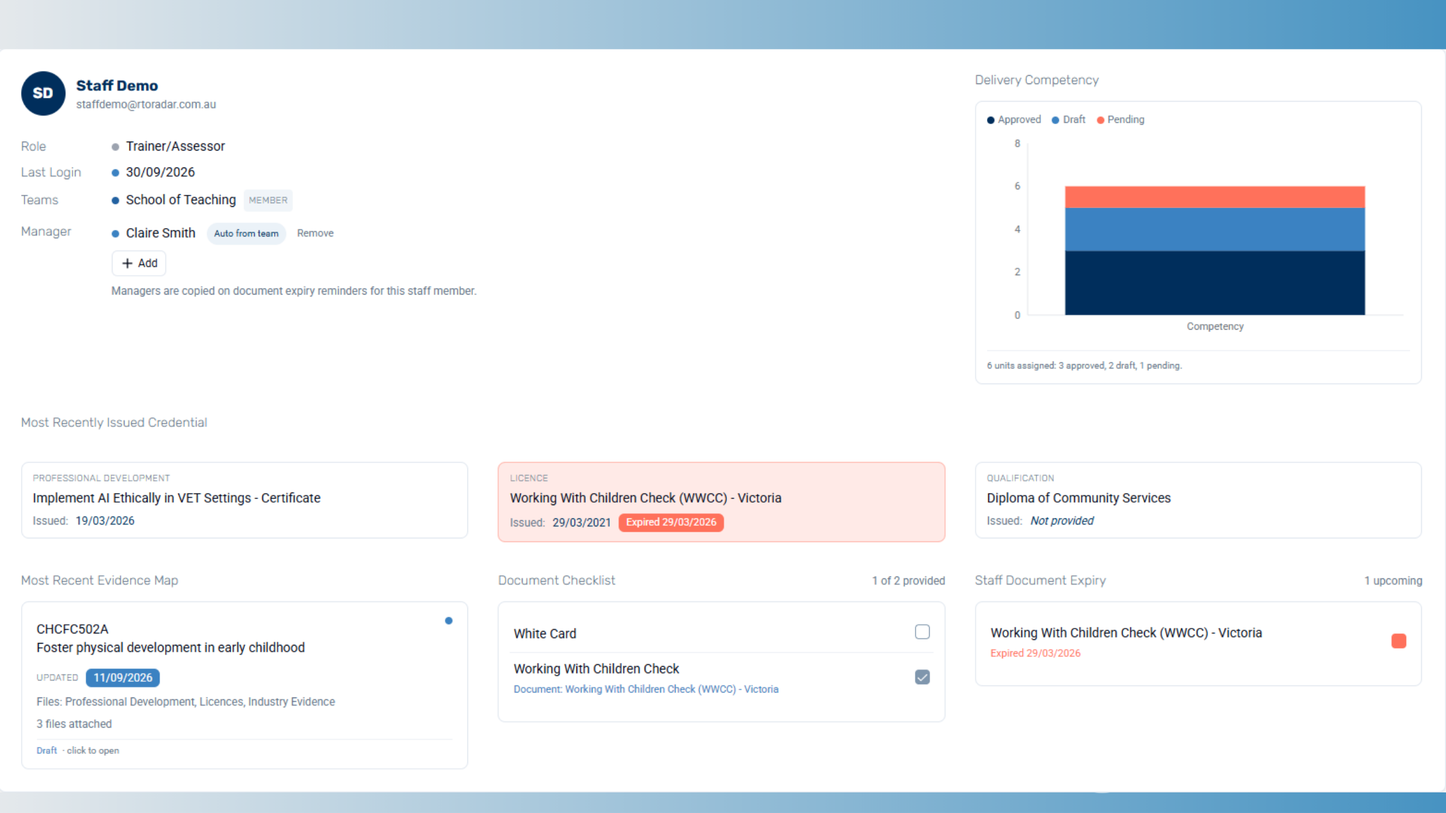
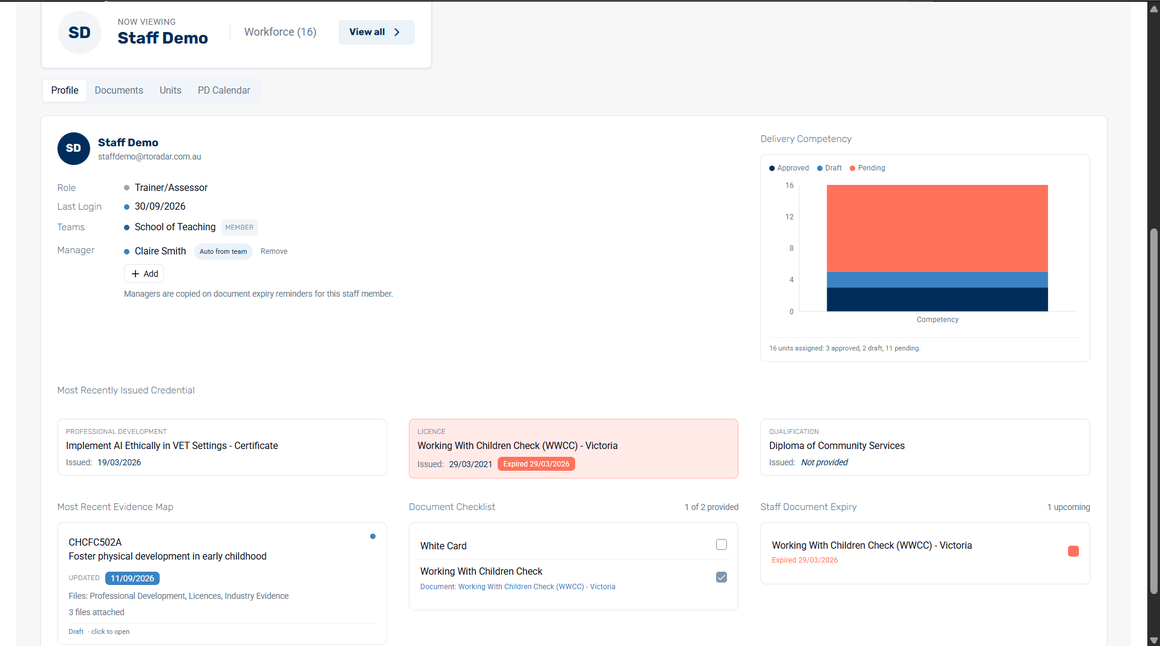
Update Getting Started: How to Use This Guide intro, silent-user trainer setup, staff documents steps
Adds screenshots for the Compliance Dashboard tab, adding a silent-user trainer and uploading staff documents. Numbers Getting Started from Set Up Your Organisation, with How to Use This Guide as an unnumbered introduction.

diff --git a/assets/js/content.js b/assets/js/content.js
@@ -16,7 +16,7 @@
   // cat: which Help Guides category the module sits under
   var MODULES = [
     { id: 'getting-started', cat: 'getting-started', name: 'Getting Started', series: true,
-      blurb: 'A 10-step series that takes you from a new account to filling up your dashboard. Work through it in order.',
+      blurb: 'A 9-step series that takes you from a new account to filling up your dashboard. Work through it in order.',
       // FAQs shown at the end of the page: [question, answer HTML]
       faqs: [
         ['What’s the difference between the person responsible for proposed treatment of risks and the Escalation Manager?',
@@ -40,14 +40,16 @@
             '<li><b>Verify</b> sends it to another person in your RTO to check first. They confirm the right steps were taken and the updated risk level is correct. The item is only marked complete across your organisation once they’ve verified it. If they think it needs more scrutiny, the verifier can escalate it to someone more senior to verify as well.</li>' +
           '</ul>' +
           '<p>Use Verify when an item needs a second set of eyes, such as one tied to a high or extreme risk.</p>'],
-        ['When should I use Silent User?',
-          '<p>Silent User adds someone to RTO Radar without emailing them an invitation. It’s useful when you want to:</p>' +
+        ['What’s the difference between a silent user and a regular user?',
+          '<p>A <b>regular user</b> is emailed an invitation, signs in to RTO Radar and works in it themselves, for example uploading their own documents and mapping their evidence.</p>' +
+          '<p>A <b>silent user</b> has a profile but no sign-in access, and isn’t emailed an invitation. You manage their records for them. Silent users are useful when you want to:</p>' +
           '<ul>' +
             '<li><b>Set up an account before inviting someone</b>: add their documents, courses and units first, so everything’s ready when they first sign in.</li>' +
             '<li><b>Keep compliance records</b> for staff who don’t need to sign in themselves, such as their credentials and document expiry dates.</li>' +
             '<li><b>Test</b> roles, checklists and settings without emailing real people.</li>' +
-          '</ul>' +
-          '<p>When you’re ready, you can send them the invitation.</p>']
+          '</ul>'],
+        ['Can I convert a silent user to a regular user?',
+          '<p>Yes. When you’re ready for them to sign in, send them an invitation from <b>Settings</b> › <b>User Management</b> › <b>Staff</b>. Their profile, documents and assignments stay as they are, so everything you set up is waiting for them when they first sign in.</p>']
       ],
       updated: '2026-10-05', // shown when the site is opened from disk; on a web server the files' own dates are used
 
@@ -86,14 +88,14 @@
 
   // [module, id, type, title, roles, minutes]
   var LIST = [
-    ['getting-started', 'gs-welcome', 'Overview', 'Welcome to RTO Radar', ADM, 5],
+    ['getting-started', 'gs-welcome', 'Overview', 'How to Use This Guide', ADM, 5],
     ['getting-started', 'gs-organisation', 'How-to', 'Set Up Your Organisation', ADM, 10],
     ['getting-started', 'gs-risks', 'How-to', 'Set Up Your Organisational Risks', ADM, 10],
     ['getting-started', 'gs-cir', 'How-to', 'Visit the Continuous Improvement Register', ADM, 5],
     ['getting-started', 'gs-documents', 'How-to', 'Start Adding Your Documents and View Compliance Dashboard', ADM, 10],
     ['getting-started', 'gs-connect-axcelerate', 'How-to', 'Import via aXcelerate (optional)', ADM, 10],
     ['getting-started', 'gs-programs', 'How-to', 'Add Your Programs', ADM, 10],
-    ['getting-started', 'gs-workforce', 'How-to', 'Invite a Trainer', ADM, 5],
+    ['getting-started', 'gs-workforce', 'How-to', 'Add a Trainer', ADM, 5],
     ['getting-started', 'gs-training', 'How-to', 'Assign Training', ADM, 10],
     ['getting-started', 'gs-dashboard', 'How-to', 'View Your Dashboard', ADM, 5],
 
@@ -213,46 +215,25 @@
       '<p>The heatmap places every risk on a five-by-five grid using the ratings you gave it: likelihood runs across, from Rare to Almost Certain, and consequence runs down, from Insignificant to Catastrophic. Each square shows how many risks share that rating.</p>' +
       '<p>A risk’s score is its likelihood multiplied by its consequence, and the colour shows its level: <b>Low</b> (1–4) in green, <b>Medium</b> (5–9) in yellow, <b>High</b> (10–16) in orange and <b>Extreme</b> (17–25) in red. Risks gather towards the top right as they get more serious, so you can see at a glance where to act first.</p>',
     'gs-welcome':
-      '<p class="lead">RTO Radar is compliance software built for Australian Registered Training Organisations. It brings the work that keeps your RTO compliant with the Standards for RTOs 2025 into one connected platform: risk, validation, policies and procedures, trainer competency, professional development, feedback and continuous improvement.</p>' +
+      '<p class="lead">This guide follows your RTO Radar onboarding session. Nine short steps take you from a new account to a dashboard filling up with your RTO’s work. Each step builds on the one before, so work through them in order.</p>' +
 
-      '<h2>Find your way around</h2>' +
+      '<h2>Moving through the guide</h2>' +
+      '<ul>' +
+        '<li><b>Previous and Next.</b> Use the buttons at the bottom of each page to go through the steps in order.</li>' +
+        '<li><b>The step list.</b> The list on the left of this guide shows every step, with the one you’re on highlighted. Select any step to jump straight to it.</li>' +
+        '<li><b>Notes and tips.</b> Read these as you go. Notes explain how something works, and tips point to shortcuts and more detail.</li>' +
+        '<li><b>FAQs.</b> The last page answers common questions, such as how risk scores are worked out and when to use a silent user.</li>' +
+      '</ul>' +
+
+      '<h2>The RTO Radar screen</h2>' +
       '<p>Every screen in RTO Radar has two parts:</p>' +
       '<ul>' +
         '<li><b>The navigation bar (1)</b> on the left lists every part of RTO Radar, from Dashboard and Document Management through to Risk Assessment, Events and Settings. Select one to open it. The navigation bar stays in place wherever you go.</li>' +
         '<li><b>The content area (2)</b> on the right shows whatever you’ve opened, and changes as you move around.</li>' +
       '</ul>' +
       '<figure class="shot" data-marks="0.3,9,15.5,90.5,zone,#1; 17.2,6.4,81.6,93.2,zone,#2"><img src="assets/img/gs-welcome-dashboard.png" alt="RTO Radar after signing in. Marker 1 points to the navigation bar on the left, listing Dashboard, Document Management, Program Management, Continuous Improvement, Workforce Management, Risk Assessment, Complaints and Suggestions, Events and Settings. Marker 2 points to the content area on the right, showing the Admin Dashboard: a Risk Register Overview with 1 missing treatment, 1 responsibility gap and 12 overdue or missing dates, a Risk Level Breakdown bar chart and a Treatment Status Overview pie chart." loading="lazy"><figcaption>The navigation bar (1) and the content area (2), showing your dashboard.</figcaption></figure>' +
-      '<p>When you sign in, the content area opens on your <b>dashboard</b>. It brings forward everything across RTO Radar that needs your immediate attention, from risks and improvement items to documents, staff and upcoming events, so you can see what to act on first without opening every module. Select any item to go straight to it. The last step in this series shows you how to tailor it.</p>' +
-
-      '<h2>How it fits together</h2>' +
-      '<p>RTO Radar runs on a quality cycle. Each part feeds the next:</p>' +
-      '<ol class="rr-cycle">' +
-        '<li><b>Risk sets the pace</b><span>Your RTO profile produces an organisational risk score, which sets a baseline validation frequency for every course. Each course’s own risk factors can shorten it further.</span></li>' +
-        '<li><b>Validation checks quality</b><span>Units are validated through a four-phase process, with AI reading your assessment tools and evidence to point out gaps.</span></li>' +
-        '<li><b>Findings become actions</b><span>Validation findings, feedback, complaints, risk treatments and audit outcomes land in one improvement register, each with an owner and a due date.</span></li>' +
-        '<li><b>Your people stay ready</b><span>Trainer profiles, evidence maps and professional development close the gaps that findings and expiring documents reveal.</span></li>' +
-        '<li><b>Improvements feed back</b><span>Completed actions update your risks, documents and PD plans, and the cycle starts again.</span></li>' +
-      '</ol>' +
-      '<p>Along the way, every document, version, decision and action is recorded, so you can export audit-ready evidence whenever you need it.</p>' +
-
-      '<h2>Who uses RTO Radar</h2>' +
-      '<p>Everyone in your RTO signs in to the same platform, and what they see depends on their role:</p>' +
-      '<ul>' +
-        '<li><a href="roles.html?r=admin"><b>Admins</b></a> set up the organisation, manage users and own the settings. Compliance managers usually hold this role.</li>' +
-        '<li><a href="roles.html?r=coord"><b>Training Coordinators</b></a> manage courses, trainer assignments and delivery.</li>' +
-        '<li><a href="roles.html?r=trainer"><b>Trainers and Assessors</b></a> keep their own documents current, take part in validation and enrol in PD.</li>' +
-        '<li><a href="roles.html?r=auditor"><b>Quality Auditors</b></a> get read-only access for internal reviews and external audits.</li>' +
-      '</ul>' +
-      '<p>Admins can also create custom roles with their own permissions.</p>' +
-
-      '<h2>Where AI helps</h2>' +
-      '<p>RTO Radar uses AI to take on the slowest parts of compliance work:</p>' +
-      '<ul>' +
-        '<li><b>Unit validation</b>: reads your assessment tools, mapping documents and student evidence against the unit of competency and points out gaps.</li>' +
-        '<li><b>Assessment judgement</b>: summarises findings and turns them into improvement items.</li>' +
-        '<li><b>Evidence maps</b>: drafts each trainer’s vocational competency and industry currency from their qualifications, work history and uploaded evidence.</li>' +
-      '</ul>' +
-      '<div class="callout tip"><b>Tip</b><span>Treat AI output as a strong first draft. Review it before you rely on it as evidence.</span></div>',
+      '<p>When you sign in, the content area opens on your <b>dashboard</b>. It brings forward everything across RTO Radar that needs your immediate attention, from risks and improvement items to documents, staff and upcoming events.</p>' +
+      '<p>If you’re new to RTO Radar, your dashboard will be mostly empty. That’s expected: it fills up as you work through this guide. Your organisational risks, improvement items, documents, courses and trainer each appear on it as you add them, and the last step shows you how to tailor it.</p>',
     'upload-and-map-a-document':
       '<p>Mapping a document tells RTO Radar which standards it evidences. Mapped documents count towards your coverage on the Compliance Dashboard, and AI-assisted unit validation can read them as evidence.</p>' +
       '<h2 id="steps">Upload and map a document</h2>' +
@@ -343,7 +324,7 @@
           '<div class="callout note"><b>Note</b><span>The responsible person gets an improvement item in the <a href="feature.html?m=cir">Continuous Improvement Register (CIR)</a> with the proposed treatment.</span></div>' +
           '<figure class="shot"><img src="assets/img/gs-risk-treatment.png" alt="A treatment plan being added to a risk: title Monthly Cash-Flow Monitoring, a description, a proposed treatment, responsible person Compliance Manager, due date 30/10/2026 and status Not started. A bar along the bottom shows the save status, 1 item queued for CI Register and a Complete Risk Assessment button." loading="lazy"><figcaption>Fill in the treatment plan. Use the calendar icon to pick a due date.</figcaption></figure></li>' +
         '<li>Repeat steps 4 to 8 to add more risks, then select <b>Complete Risk Assessment</b>.' +
-          '<figure class="shot" data-marks="8.4,54.2,17.6,10,oval,#; 49,16.4,arrow-down; 88.1,92.6,arrow-down"><img src="assets/img/gs-risk-repeat.png" alt="Risk Assessment by Category with a second category selected. ICT and Cyber-Security Risk is circled in the category list, and an arrow points down at its content on the right: its description, an example, and a risk being entered, Staff Awareness of Cyber Risks, rated Medium Risk with a score of 9. A second arrow points down at the Complete Risk Assessment button in the save bar along the bottom, which shows 2 items queued for CI Register." loading="lazy"><figcaption>Choose another category, such as ICT and Cyber-Security Risk, and add its risks the same way.</figcaption></figure></li>' +
+          '<figure class="shot" data-marks="8.4,54.2,17.6,10,oval,#1; 49,16.4,arrow-down,#2; 88.1,92.6,arrow-down,#3"><img src="assets/img/gs-risk-repeat.png" alt="Risk Assessment by Category with a second category selected. Marker 1 circles ICT and Cyber-Security Risk in the category list, and marker 2 is an arrow pointing down at its content on the right: its description, an example, and a risk being entered, Staff Awareness of Cyber Risks, rated Medium Risk with a score of 9. Marker 3 is an arrow pointing down at the Complete Risk Assessment button in the save bar along the bottom, which shows 2 items queued for CI Register." loading="lazy"><figcaption>Choose another category (1), add its risks the same way (2), then select Complete Risk Assessment (3).</figcaption></figure></li>' +
         '<li>Review your changes, then select <b>Complete Risk Assessment</b>.' +
           '<figure class="shot" data-marks="54.4,69.8,17.6,11.4,oval,#"><img src="assets/img/gs-risk-review.png" alt="The review shown before completing the assessment, headed New Risks Added (2). It lists both new risks with their category, likelihood and consequence, and treatment plan: Cash-flow pressure from delayed student payments, rated Medium with a score of 9, and Staff Awareness of Cyber Risks, rated Low with a score of 4. The Complete Risk Assessment button, between Discard and Exit and Cancel, is circled." loading="lazy"><figcaption>Review the new risks and their treatment plans, then select Complete Risk Assessment.</figcaption></figure>' +
           '<div class="callout note"><b>Note</b><span>You can add more risks later from Risk Assessment › Actions › Edit Comprehensive Assessment.</span></div></li>' +
@@ -391,6 +372,8 @@
       '</ol>' +
       '<h2>Compliance Dashboard</h2>' +
       '<p>The Compliance Dashboard shows how well your documents cover each framework, using the standards you mapped them to. As you upload and map more documents, it fills in.</p>' +
+      '<p>To open it, go to <b>Document Management</b> and select the <b>Compliance Dashboard</b> tab.</p>' +
+      '<figure class="shot" data-marks="21.2,43.2,9.8,6.6,oval,#"><img src="assets/img/gs-cd-tab.png" alt="Document Management (QMS), showing totals for documents, approved, review due and drafts, and the Document Repository. The Compliance Dashboard tab, beside Documents, is circled." loading="lazy"><figcaption>Select the Compliance Dashboard tab in Document Management.</figcaption></figure>' +
       '<p><b>Standards coverage</b> shows how many standards have at least one mapped document. <b>Policy Compliance Health</b> is a score out of 100 that combines standards coverage, review timeliness and document freshness.</p>' +
       '<figure class="shot"><img src="assets/img/gs-cd-coverage.png" alt="The top of the Compliance Dashboard for the Standards for RTOs 2025: 23 total standards, 9 covered and 14 missing. A Standards Coverage chart shows 39 percent coverage, and a Policy Compliance Health gauge shows 52, rated Fair, on a scale of 0 to 39, 40 to 69 and 70 to 100." loading="lazy"><figcaption>Standards coverage and Policy Compliance Health.</figcaption></figure>' +
       '<p><b>Upcoming reviews</b> shows documents that are overdue, or due for review in the next 30 or 90 days.</p>' +
@@ -435,16 +418,16 @@
           '<figure class="shot" data-marks="82.6,18.4,12.6,8.6,oval,#"><img src="assets/img/gs-prog-save.png" alt="Manage Course Units for BSB50120 Diploma of Business, marked Unsaved Changes. The Save Changes button at the top right is circled. Below, the added units are marked Added in the unit list." loading="lazy"><figcaption>Select Save Changes. Until you do, the page shows Unsaved Changes.</figcaption></figure></li>' +
       '</ol>',
     'gs-workforce':
-      '<p>Each staff member gets their own RTO Radar account, and their role decides what they can see and do. Start with a trainer to see how it works.</p>' +
+      '<p>Add your trainer as a <b>silent user</b> first. A silent user has a profile but can’t sign in and isn’t emailed an invitation, so you can set up their courses, units and documents before they ever see RTO Radar. Most RTOs add their trainers this way, then invite them once everything’s ready.</p>' +
       '<ol class="steps-list">' +
         '<li>On your navigation bar, go to <b>Settings</b> › <b>User Management</b> › <b>Staff</b>, then select <b>Add New User</b>.' +
           '<figure class="shot" data-marks="0.5,80.4,8.2,6.2,oval,right,#1; 39.2,43.2,14.6,7.6,oval,above,#2; 35.1,77.3,7.7,5.8,oval,right,#3; 28.6,87.6,13.8,10.8,oval,right,#4"><img src="assets/img/gs-trainer-add.png" alt="Organisation Settings on the User Management tab. Marker 1 circles Settings in the navigation bar, marker 2 the User Management tab, marker 3 the Staff tab, and marker 4 the Add New User button." loading="lazy"><figcaption>Select Settings (1), User Management (2) and Staff (3), then Add New User (4).</figcaption></figure></li>' +
         '<li>Choose a trainer who will deliver a course you’ve added to RTO Radar. You’ll assign that course to them in the next step.</li>' +
-        '<li>Enter their name and email, select the <b>Trainer/Assessor</b> role, leave the team as <b>System Default</b>, and leave <b>Silent User</b> off.' +
-          '<figure class="shot" data-marks="52.2,88.4,11.6,7.8,oval,#"><img src="assets/img/gs-trainer-form.png" alt="The Create New User form, filled in with a first and last name, an email address, the Trainer/Assessor role, the team left as System Default (no team), and Silent user switched off. The Send Invitation button at the bottom is circled." loading="lazy"><figcaption>Fill in their details, then select Send Invitation.</figcaption></figure>' +
-          '<div class="callout note"><b>Note</b><span>Silent User stops RTO Radar from emailing an invitation straight away.</span></div>' +
+        '<li>Enter their name and email, select the <b>Trainer/Assessor</b> role, leave the team as <b>System Default</b>, and turn on <b>Silent user</b>.' +
+          '<figure class="shot" data-marks="57.7,69.6,4.4,5.8,oval,#; 51.6,93.6,9.8,6.6,oval,#"><img src="assets/img/gs-trainer-silent.png" alt="The Create New User form, filled in with a first and last name, an email address, the Trainer/Assessor role and the team left as System Default (no team). The Silent user (no login access) switch is turned on and circled, and a note says the user will be created for compliance tracking only and won’t receive an invitation email or be able to log in. The Create Profile button is circled." loading="lazy"><figcaption>Turn on Silent user, then select Create Profile.</figcaption></figure>' +
           '<div class="callout tip"><b>Tip</b><span>For more on roles, permissions and teams, see <a href="feature.html?m=users">Users, Roles &amp; Teams</a> in Features.</span></div></li>' +
-        '<li>Select <b>Send Invitation</b>. They’ll get an email to set up their account.</li>' +
+        '<li>Select <b>Create Profile</b>. Their profile is created without sending an invitation.' +
+          '<div class="callout note"><b>Note</b><span>When they’re ready to sign in, you can send them an invitation. See <a href="feature.html?m=getting-started&amp;s=faq">the FAQs</a> for the difference between silent and regular users, and how to convert one to the other.</span></div></li>' +
       '</ol>',
     'gs-dashboard':
       '<p>Your dashboard is a live snapshot of your whole RTO. Risk, improvement items, workforce readiness, documents and upcoming events each have their own widget, and each one brings forward only the items that need your immediate attention. No digging through every module: what’s overdue, due soon or at risk is right in front of you.</p>' +
@@ -480,15 +463,27 @@
       '<h2>Create a Document Checklist</h2>' +
       '<ol class="steps-list">' +
         '<li>In <b>Workforce Management</b>, go to the <b>Document Checklist</b> tab.' +
-          '<figure class="shot" data-marks="35.3,41,14.1,4.6,oval,above,#1; 64.5,75.6,11.9,4.8,oval,#2"><img src="assets/img/gs-checklist-role.png" alt="The Document Checklist tab in Workforce Management, asking you to select a role. Roles shown are Administrator and Trainer/Assessor, with a Display all documents option. Marker 1 circles the Document Checklist tab, and marker 2 circles the Trainer/Assessor role." loading="lazy"><figcaption>Open Document Checklist (1), then choose the Trainer/Assessor role (2).</figcaption></figure></li>' +
+          '<figure class="shot" data-marks="34.6,39.4,15.6,7.6,oval,above,#1; 63.8,73.8,13.4,8.6,oval,#2"><img src="assets/img/gs-checklist-role.png" alt="The Document Checklist tab in Workforce Management, asking you to select a role. Roles shown are Administrator and Trainer/Assessor, with a Display all documents option. Marker 1 circles the Document Checklist tab, and marker 2 circles the Trainer/Assessor role." loading="lazy"><figcaption>Open Document Checklist (1), then choose the Trainer/Assessor role (2).</figcaption></figure></li>' +
         '<li>Select the <b>Trainer/Assessor</b> role.</li>' +
         '<li>Select <b>Add Document Type</b> and add each document trainers need, such as a Working With Children Check or White Card.' +
-          '<figure class="shot" data-marks="83.3,66.6,12.2,6.4,oval,#3"><img src="assets/img/gs-checklist-add.png" alt="The document checklist for the Trainer/Assessor role. Document Expiry Health shows 10 current documents and 1 expired, and Role coverage shows how many trainers have submitted each required document. The table lists White Card and Working With Children Check with how many have been received. Marker 3 circles the Add document type button." loading="lazy"><figcaption>Select Add document type (3) to add each document trainers need.</figcaption></figure></li>' +
+          '<figure class="shot" data-marks="82.6,65.2,13.6,9.2,oval,#"><img src="assets/img/gs-checklist-add.png" alt="The document checklist for the Trainer/Assessor role. Document Expiry Health shows 10 current documents and 1 expired, and Role coverage shows how many trainers have submitted each required document. The table lists White Card and Working With Children Check with how many have been received. The Add document type button is circled." loading="lazy"><figcaption>Select Add document type to add each document trainers need.</figcaption></figure></li>' +
       '</ol>' +
       '<h2>Staff Documents</h2>' +
-      '<p>Once the trainer accepts the invitation and signs in, they can upload the documents on their checklist and send them for review, see the courses and units assigned to them, and use AI to map their evidence against those units.</p>' +
-      '<p>You can also upload documents for them from their profile: <b>Documents</b> › <b>Upload Document</b>.</p>' +
-      '<figure class="shot"><img src="assets/img/gs-staff-profile.png" alt="A trainer’s staff profile. It shows their role, last login, team and manager; a delivery competency chart with 6 units assigned, 3 approved, 2 draft and 1 pending; their most recently issued credentials, including an expired Working With Children Check; their most recent evidence map; their document checklist with 1 of 2 documents provided; and upcoming staff document expiry." loading="lazy"><figcaption>A trainer’s profile brings together their units, credentials, evidence map, checklist and document expiry.</figcaption></figure>'
+      '<p>Your trainer is a silent user, so you upload their documents for them.</p>' +
+      '<p>Would you rather the trainer upload their own documents? Send them an invitation to RTO Radar. Once they sign in, they can upload documents from their checklist and send them for review, see their assigned courses and units, and use AI to map their evidence against those units.</p>' +
+      '<p>To upload a document for them, open their staff profile, then:</p>' +
+      '<ol class="steps-list">' +
+        '<li>Select the <b>Documents</b> tab.</li>' +
+        '<li>Select <b>Upload Document</b>, then add each document on their checklist.' +
+          '<figure class="shot" data-marks="4.5,24.9,6.7,4.6,oval,#1; 86.9,34.4,12.4,6.2,oval,above,#2"><img src="assets/img/gs-staff-docs.png" alt="The Documents tab of the Staff Demo profile, listing 11 documents with their category, document checklist item, status and expiry, such as a Working With Children Check marked Approved. Marker 1 circles the Documents tab, and marker 2 circles the Upload Document button." loading="lazy"><figcaption>Open the Documents tab (1), then select Upload Document (2).</figcaption></figure></li>' +
+        '<li>Select the file box and choose the document from your computer.' +
+          '<figure class="shot" data-marks="51,72,arrow-down,small"><img src="assets/img/gs-staff-file.png" alt="The Upload Qualifications window, for uploading certificates, diplomas, degrees and other formal qualifications. An arrow points down at the Select File box, which shows a chosen file, Diploma of Community Services.docx." loading="lazy"><figcaption>Select the file box to choose a document.</figcaption></figure></li>' +
+        '<li>Enter the document details, then select <b>Upload Document</b>.' +
+          '<figure class="shot" data-marks="82.4,93.3,15.4,6.6,oval,#"><img src="assets/img/gs-staff-upload.png" alt="The document details form for a qualification: category Qualifications, the document name, course code CHC52025, course name Diploma of Community Services, a description listing the units completed, a completion date of 14/06/2026, and This document does not expire ticked. The Upload Document button at the bottom right is circled." loading="lazy"><figcaption>Fill in the details, then select Upload Document.</figcaption></figure></li>' +
+        '<li>Find the document you uploaded on the <b>Documents</b> tab.</li>' +
+        '<li>Open the <b>Profile</b> tab to see how it all comes together: their role and team, delivery competency, most recent credentials and evidence map, document checklist and upcoming document expiry.' +
+          '<figure class="shot" data-marks="3.4,12.3,4.7,4.2,oval,#"><img src="assets/img/gs-staff-profile.png" alt="The Profile tab of the Staff Demo profile, circled. It shows their role, last login, team and manager; a delivery competency chart of 16 units assigned; their most recently issued credentials, including the Diploma of Community Services and an expired Working With Children Check; their most recent evidence map; their document checklist with 1 of 2 provided; and upcoming staff document expiry." loading="lazy"><figcaption>A trainer’s profile brings together their units, credentials, evidence map, checklist and document expiry.</figcaption></figure></li>' +
+      '</ol>'
   };
 
   // Getting Started steps that share a written guide with their module

diff --git a/assets/js/app.js b/assets/js/app.js
@@ -275,7 +275,7 @@
     var cfg = RH.MODULES.filter(function (m) { return m.cat === 'configuration'; });
     var cfgCount = cfg.reduce(function (n, m) { return n + moduleArticles(m.id).length; }, 0);
     var cats = [
-      { lens: 'Start here', goal: 1, n: moduleArticles('getting-started').length + ' guides', name: 'Getting Started', href: modUrl('getting-started'), desc: 'A 10-step series from a new account to filling up your dashboard.', items: moduleArticles('getting-started').slice(0, 4).map(function (a) { return [a.t, artUrl(a.id)]; }), cta: 'Start the series' },
+      { lens: 'Start here', goal: 1, n: moduleArticles('getting-started').length + ' guides', name: 'Getting Started', href: modUrl('getting-started'), desc: 'A 9-step series from a new account to filling up your dashboard.', items: moduleArticles('getting-started').slice(0, 4).map(function (a) { return [a.t, artUrl(a.id)]; }), cta: 'Start the series' },
       { lens: 'By goal', goal: 1, n: RH.WORKFLOWS.length + ' workflows', name: 'Workflows', href: 'workflows.html', desc: 'Tell us what you’re trying to accomplish. We’ll walk you across every module it touches.', items: ['prepare-for-an-audit', 'prepare-a-trainer-for-delivery', 'validate-a-unit', 'complaint-to-improvement'].map(function (id) { return [WF[id].t, wfUrl(id)]; }), cta: 'See all ' + RH.WORKFLOWS.length + ' workflows' },
       { lens: 'By screen', n: feats.length + ' modules', name: 'Features', href: 'features.html', desc: 'How each part of RTO Radar works, and where its data shows up elsewhere.', items: ['qms', 'cir', 'workforce', 'risk'].map(function (id) { return [MOD[id].name, modUrl(id)]; }), cta: 'See all ' + feats.length + ' modules' },
       { lens: 'By role', n: '4 roles', name: 'Roles', href: 'roles.html', desc: 'Where to start based on what your role can see and do.', items: Object.keys(RH.ROLES).map(function (r) { return [RH.ROLES[r].name, 'roles.html?r=' + r]; }), cta: 'Find your role' },
@@ -351,24 +351,26 @@
     var hashId = location.hash.slice(1);
     if (!param('s') && A[hashId] && A[hashId].module === m.id) { location.replace(seriesUrl(m, hashId)); return; }
 
-    var list = steps.map(function (a, i) { return { id: a.id, t: a.t, a: a, n: i + 1 }; });
+    // An Overview step (How to Use This Guide) is an unnumbered introduction; numbering starts after it
+    var total = steps.filter(function (a) { return a.type !== 'Overview'; }).length, k = 0;
+    var list = steps.map(function (a) { var intro = a.type === 'Overview'; return { id: a.id, t: a.t, a: a, intro: intro, n: intro ? 0 : ++k }; });
     if (faqs.length) list.push({ id: 'faq', t: 'Frequently asked questions' });
     var idx = 0;
     list.forEach(function (p, i) { if (p.id === param('s')) idx = i; });
     var cur = list[idx], prev = list[idx - 1], next = list[idx + 1];
     document.title = cur.t + ' · ' + m.name + ' · RadarHelp';
     // Reaching the last step's page completes the series (the landing page shows a check)
-    if (cur.a && cur.n === steps.length && !gsComplete()) store('gs.complete', true);
+    if (cur.a && cur.n === total && !gsComplete()) store('gs.complete', true);
 
     crumbBar([['RadarHelp', 'index.html'], ['Help Guides', 'guides.html'], [m.name, seriesUrl(m)], [cur.t]]);
     $('#body').classList.remove('wrap'); // the step list sits against the left edge of the page
 
     var nav = '<button type="button" class="gs2-toggle" aria-expanded="false" aria-controls="gs2-nav">' +
-        '<span>' + (cur.a ? 'Step ' + cur.n + ' of ' + steps.length + ': ' : '') + esc(cur.t) + '</span><span class="chev" aria-hidden="true">▾</span></button>' +
+        '<span>' + (cur.a && !cur.intro ? 'Step ' + cur.n + ' of ' + total + ': ' : '') + esc(cur.t) + '</span><span class="chev" aria-hidden="true">▾</span></button>' +
       '<nav class="gs2-nav" id="gs2-nav" aria-label="' + esc(m.name) + '"><span class="gs2-group">' + esc(m.name) + '</span><ol>' +
       list.map(function (p, i) {
         return '<li><a href="' + seriesUrl(m, p.id) + '"' + (i === idx ? ' aria-current="page"' : '') + '>' +
-          '<span class="n">' + (p.a ? p.n : '?') + '</span><span>' + esc(p.t) + '</span></a></li>';
+          '<span class="n">' + (p.intro ? 'i' : p.a ? p.n : '?') + '</span><span>' + esc(p.t) + '</span></a></li>';
       }).join('') + '</ol></nav>';
 
     var content, afterPager = ''; // afterPager: shown below Previous/Next (related articles on the FAQ page)
@@ -382,8 +384,8 @@
         var mm = /^(<h3>[\s\S]*?<\/h3>)([\s\S]*)$/.exec(part);
         return mm ? '<div class="gs-sub">' + mm[1] + '<div class="gs-sub-body">' + mm[2] + '</div></div>' : part;
       }).join('');
-      content = '<header class="gs2-head"><span class="eyebrow">' + esc(m.name) + ' · Step ' + cur.n + ' of ' + steps.length + '</span>' +
-        '<h1>' + esc(a.t) + '</h1>' + (cur.n === 1 ? '<p class="gs2-lede">' + esc(m.blurb) + '</p>' : '') +
+      content = '<header class="gs2-head"><span class="eyebrow">' + esc(m.name) + (cur.intro ? '' : ' · Step ' + cur.n + ' of ' + total) + '</span>' +
+        '<h1>' + esc(a.t) + '</h1>' + (cur.intro ? '<p class="gs2-lede">' + esc(m.blurb) + '</p>' : '') +
         '<div class="gs-meta"><span class="role">' + ICON.user + 'Admin</span><a class="updated" id="gs-updated" href="page.html?p=whats-new">Updated <time></time></a></div></header>' +
         '<section class="gs-step gs2-body"><div class="prose">' + body + '</div></section>';
     } else {

diff --git a/index.html b/index.html
@@ -51,7 +51,7 @@
       <div class="gs-status" id="gs-status" role="img" aria-label="Not started yet">!</div>
       <div class="txt">
         <h2 style="font-size:1.6rem" id="gs-heading">Start here</h2>
-        <span class="muted">Ten short steps take you from a new account to your dashboard.</span>
+        <span class="muted">Nine short steps take you from a new account to your dashboard.</span>
       </div>
       <div class="chips" id="gs-chips" style="max-width:420px"></div>
       <a class="btn btn-primary" id="gs-go" href="feature.html?m=getting-started">Start the setup series →</a>
